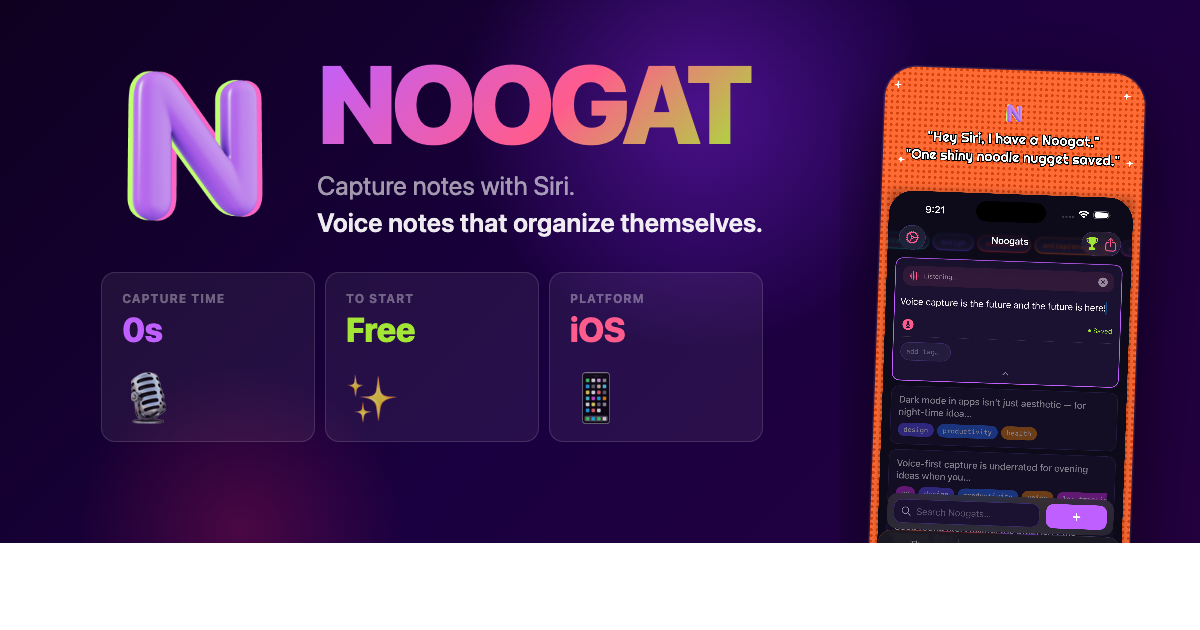
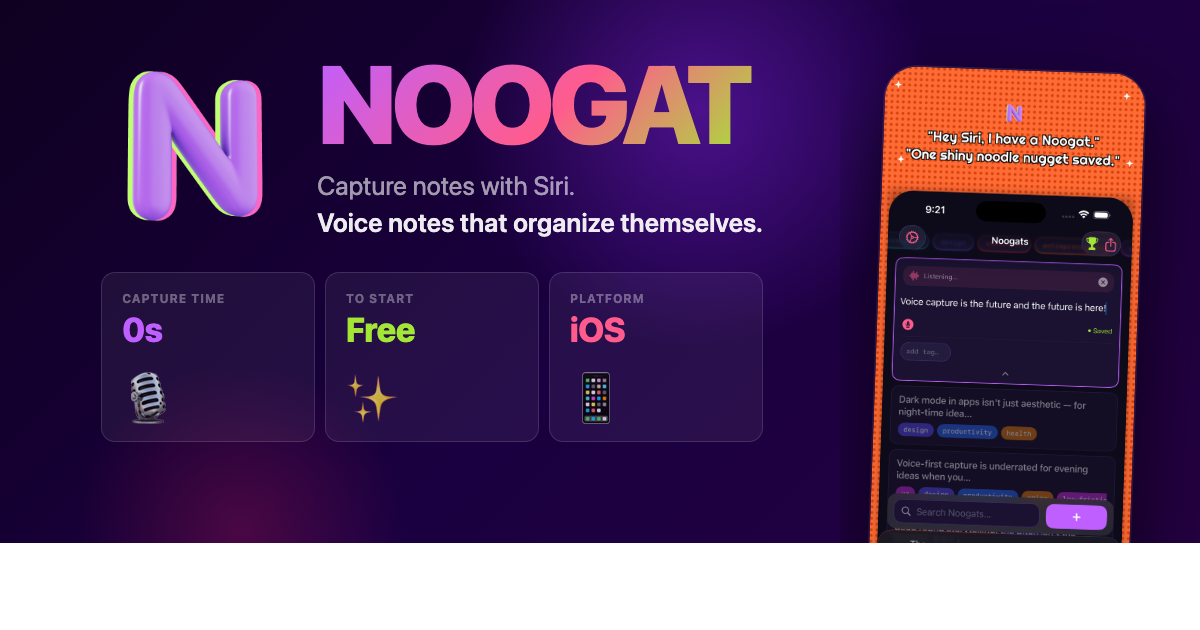
fix: explicit ./ prefixes on OG image asset paths

diff --git a/assets/og-image-source.html b/assets/og-image-source.html
@@ -87,7 +87,7 @@ body {
   <div class="og-left">
     <div class="og-content">
       <div class="og-lockup">
-        <img class="og-logo" src="logo-transparent.png" alt="Noogat">
+        <img class="og-logo" src="./logo-transparent.png" alt="Noogat">
         <div class="og-copy">
           <div class="og-wordmark">NOOGAT</div>
           <div class="og-tagline">
@@ -116,7 +116,7 @@ body {
     </div>
   </div>
   <div class="og-right">
-    <img class="og-phone" src="screenshots/screenshot-01-voice.png" alt="Noogat voice capture screen">
+    <img class="og-phone" src="./screenshots/screenshot-01-voice.png" alt="Noogat voice capture screen">
   </div>
   <div class="og-band">
     <span>"Hey Siri, I have a Noogat." — hands-free voice notes, always findable</span>